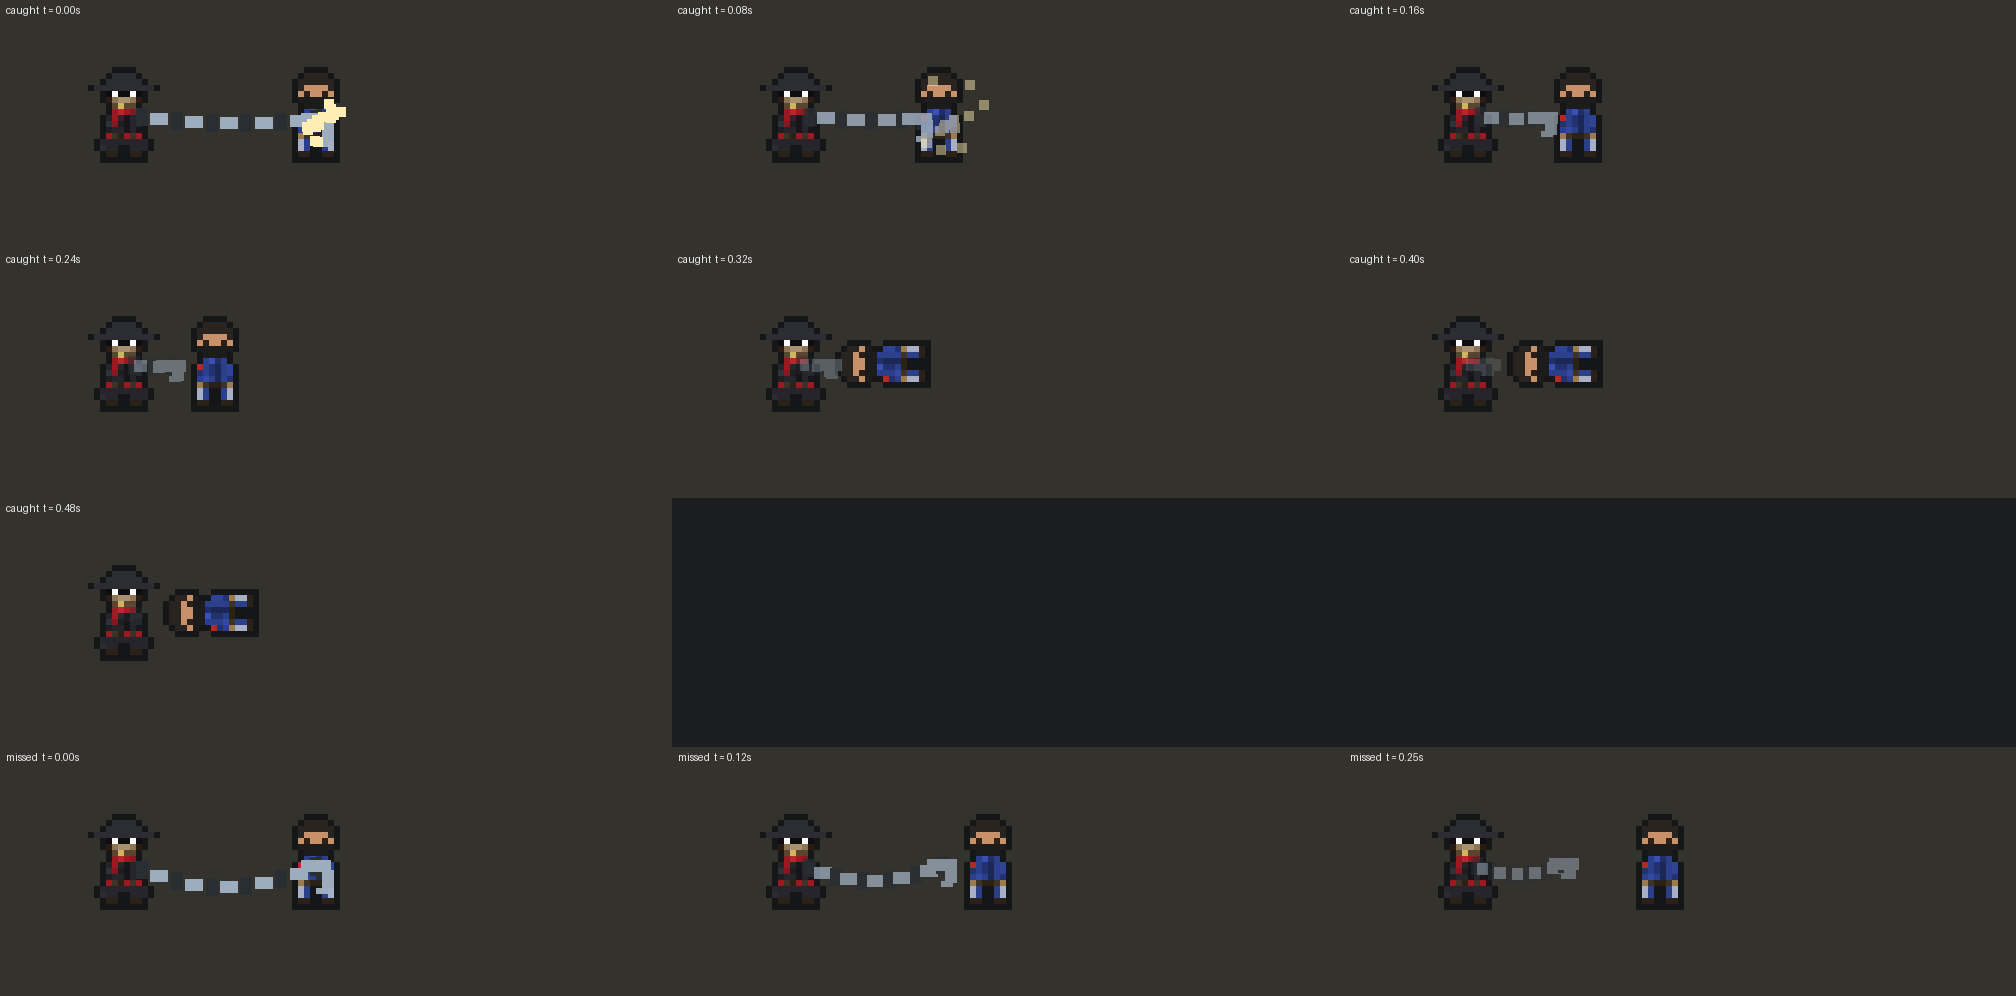
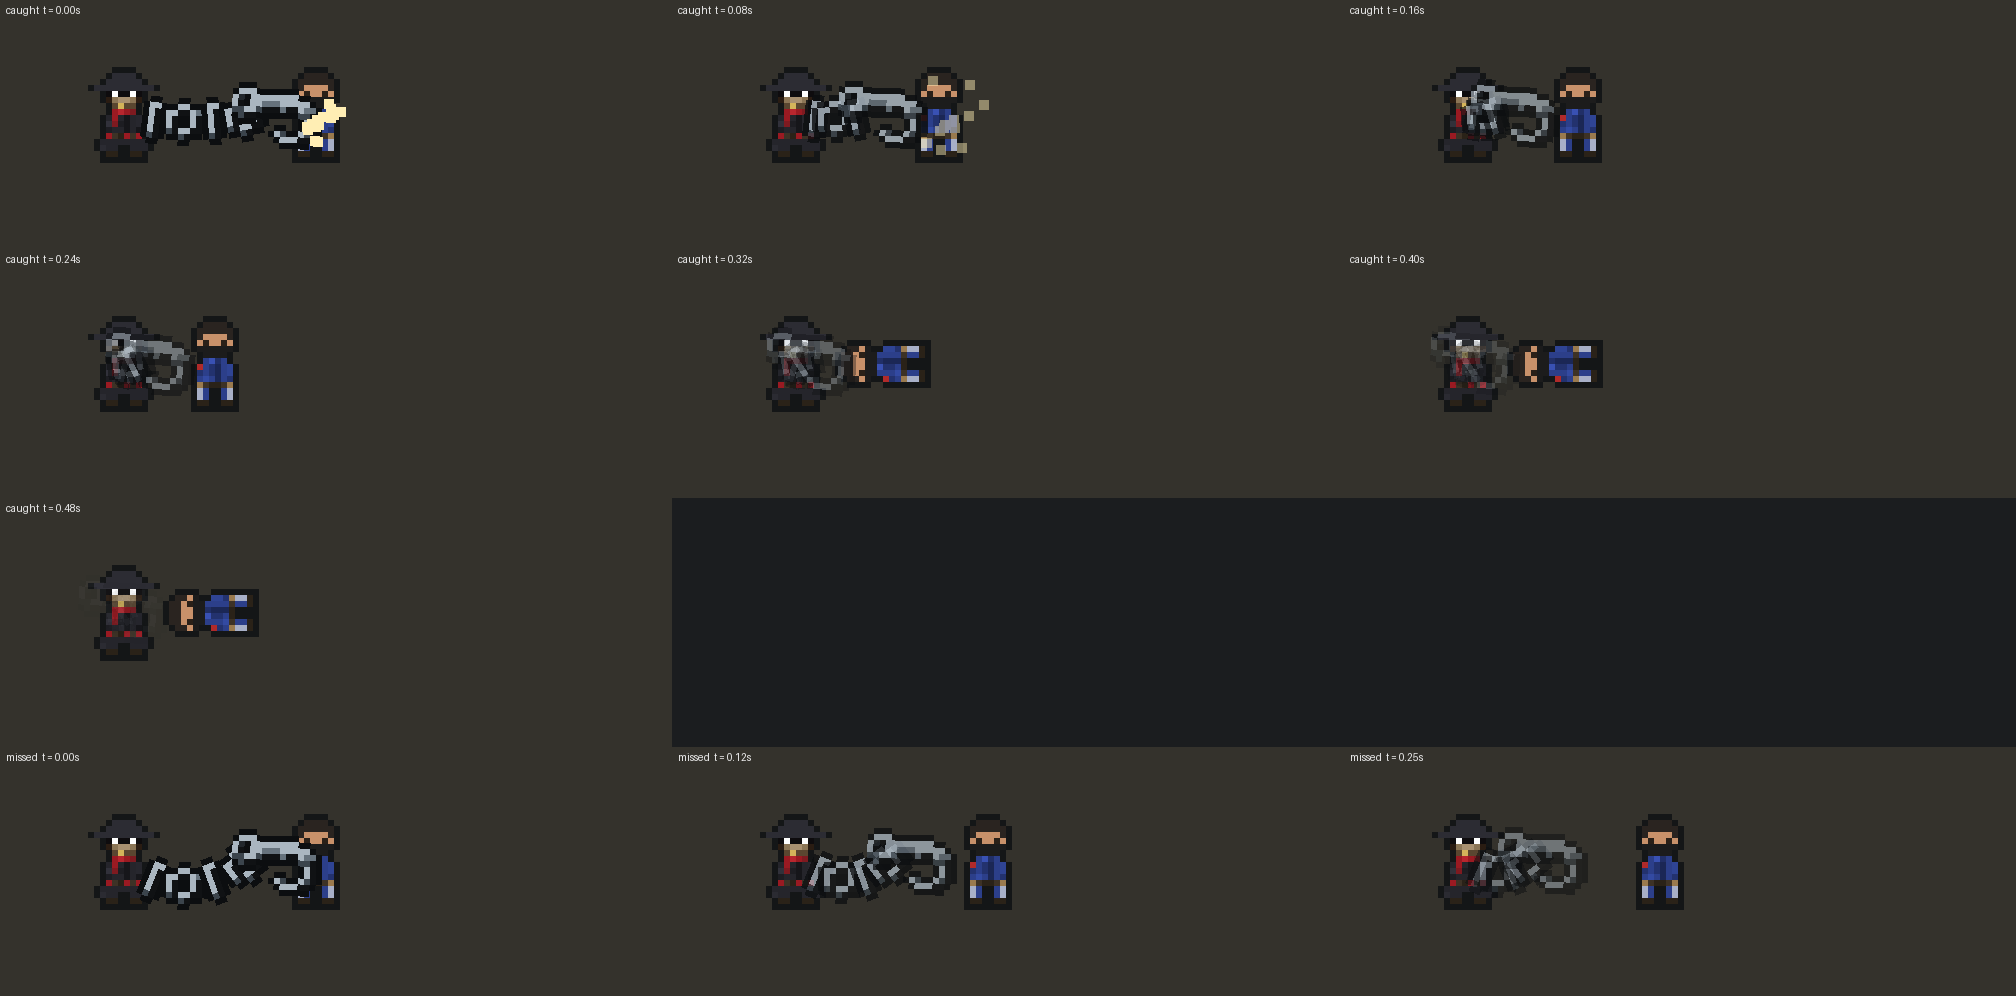
Verger Hook: a real gaff hook and interlocking chain links (sprites)
Claude-Session: https://claude.ai/code/session_01Jpd5tdDJTR7BVueAYV1KDM

diff --git a/Assets/Scripts/GameCore/CombatFxView.cs b/Assets/Scripts/GameCore/CombatFxView.cs
@@ -804,18 +804,24 @@ namespace GameCore
                     Sfx.Play(e.Hit ? "parry_perfect" : "parry", mid, 1f, e.Hit ? 0f : 0.08f);
                     Shake(e.Hit ? 0.22f : 0.07f);
                     break;
-                case "hookchain":  // 2026-11-20 (the Verger's Hook): a chain from his hands to you, drawn as links (alternating flat and edge-on, 3 px apart, a sag that goes slack when it misses and taut when it catches), a hook head at the end; the links slide back into his hands
+                case "hookchain":  // 2026-11-20 (the Verger's Hook): an iron gaff hook on a chain of interlocking links (ArtSource/make_hook_fx.py: Fx/fx_hook_head.png, Fx/fx_hook_links.png), laid along the line from his hands to you, turned to the line with the hook's curl always below; a sag that goes slack when it misses and taut when it catches; everything slides back toward his hands over half a second
                 {
                     var a = head - new Vector3(0f, 0.25f, 0f); var b = to + new Vector3(0f, 0.45f, 0f);
-                    float len = Vector3.Distance(a, b); int n = Mathf.Max(4, Mathf.RoundToInt(len / 0.19f)); float sag = (e.Hit ? 0.06f : 0.24f) * Mathf.Min(1f, len / 2f);
+                    float len = Vector3.Distance(a, b); float sag = (e.Hit ? 0.06f : 0.24f) * Mathf.Min(1f, len / 2f);
+                    var linkArt = Strip("Sprites/Fx/fx_hook_links", 2, 16, new Vector2(0.5f, 0.5f)); var hookArt = Strip("Sprites/Fx/fx_hook_head", 1, 16, new Vector2(0.5f, 0.5f));
+                    float ang = Mathf.Atan2(b.y - a.y, b.x - a.x) * Mathf.Rad2Deg, flip = b.x < a.x ? -1f : 1f;
+                    float hookLen = 0.75f; var tip = b; var eye = b - new Vector3(Mathf.Cos(ang * Mathf.Deg2Rad), Mathf.Sin(ang * Mathf.Deg2Rad), 0f) * hookLen;   // the hook's eye, one hook-length back along the line from where it bites
+                    int n = Mathf.Max(3, Mathf.RoundToInt(Vector3.Distance(a, eye) / 0.3125f));                                                                                                            // one link every 5 px (they interlock: a face-on one is 6 px long, an edge-on one 4)
                     for (int k = 1; k <= n; k++)
                     {
-                        float u = k / (float)n; var pos = Vector3.Lerp(a, b, u) + new Vector3(0f, -sag * 4f * u * (1f - u), 0f);
-                        bool flat = k % 2 == 0;
-                        Bit(pos, flat ? ChainSteel : ChainDark, flat ? 3 : 2, flat ? 2 : 3, (a - pos) / 0.5f, 0f, 0.5f, 12);     // each link slides back toward his hands over half a second
+                        float u = k / (float)n; var pos = Vector3.Lerp(a, eye, u) + new Vector3(0f, -sag * 4f * u * (1f - u), 0f);
+                        float la = Mathf.Atan2((eye.y - a.y) - sag * 4f * (1f - 2f * u), eye.x - a.x) * Mathf.Rad2Deg;                    // each link follows the sagging line
+                        if (linkArt != null) ChainPiece(linkArt[k % 2], pos, la, 1f, (a - pos) / 0.5f, 0.5f, k % 2 == 0 ? 12 : 13);
+                        else { bool flat = k % 2 == 0; Bit(pos, flat ? ChainSteel : ChainDark, flat ? 3 : 2, flat ? 2 : 3, (a - pos) / 0.5f, 0f, 0.5f, 12); }
                     }
-                    var hv = (a - b) / 0.5f;                                                                                   // the hook head: a shank, a curve down and a barb, with a dark bite behind it
-                    Bit(b, ChainSteel, 5, 2, hv, 0f, 0.5f, 13); Bit(b + new Vector3(0.1250f, -0.1250f, 0f), ChainSteel, 2, 3, hv, 0f, 0.5f, 13); Bit(b + new Vector3(0.0625f, -0.2500f, 0f), ChainSteel, 2, 1, hv, 0f, 0.5f, 13); Bit(b + new Vector3(0.0625f, -0.0625f, 0f), ChainDark, 2, 2, hv, 0f, 0.5f, 12);
+                    var hc = (eye + tip) * 0.5f;
+                    if (hookArt != null) ChainPiece(hookArt[0], hc, ang, flip, (a - hc) / 0.5f, 0.5f, 14);                         // the hook, point first, the curl below the line
+                    else { Bit(tip, ChainSteel, 5, 2, (a - tip) / 0.5f, 0f, 0.5f, 13); Bit(tip + new Vector3(0.125f, -0.125f, 0f), ChainSteel, 2, 3, (a - tip) / 0.5f, 0f, 0.5f, 13); }
                     if (e.Hit) { Burst(b, Steel, 14, 2.6f, 0.35f); Burst(b, Color.white, 6, 3.6f, 0.25f, 2); Shake(0.12f); Sfx.Play("hook_catch", to, 1f, 0.03f); Sfx.Play("chain_drag", Vector3.Lerp(a, b, 0.5f), 0.8f, 0.03f); }
                     else Sfx.Play("hook_throw", from, 0.9f, 0.04f);
                     break;
@@ -884,6 +890,14 @@ namespace GameCore
         }
 
         /// <summary>A small solid chunk (casing, shell, dropped magazine) in weapon pixels that flies and falls.</summary>
+        /// <summary>2026-11-20: a sprite piece of the hook's chain, turned to `deg` (flipY -1 keeps a curl below the line when it points left), sliding at `vel` and fading over `life`.</summary>
+        private void ChainPiece(Sprite spr, Vector3 at, float deg, float flipY, Vector3 vel, float life, int order)
+        {
+            var sr = NewSprite("Chain", spr, Color.white, _root, order);
+            sr.transform.position = at; sr.transform.rotation = Quaternion.Euler(0f, 0f, deg); sr.transform.localScale = new Vector3(1f, flipY, 1f);
+            _live.Add(new Particle { Sr = sr, Born = Time.time, Life = life, Vel = vel, Gravity = 0f, Fade = true });
+        }
+
         private void Bit(Vector3 at, Color col, int w, int h, Vector3 vel, float gravity, float life, int order)
         {
             var sr = NewSprite("Bit", White(), col, _root, order);

diff --git a/ArtSource/make_hook_fx.py b/ArtSource/make_hook_fx.py
@@ -1,0 +1,37 @@
+# The Verger's Hook, drawn (2026-11-20; Yan: "improve the chain, doesn't look like a hook right now"): a real iron gaff hook and interlocking chain links, hand-built at native pixel size with pxart (not resampled).
+#   Assets/Resources/Sprites/Fx/fx_hook_head.png   one frame, 16x12: an eye ring (the chain's end), a shank, a deep J-bend and a barbed point curling back; it points RIGHT, the curl below
+#   Assets/Resources/Sprites/Fx/fx_hook_links.png  two frames of 8x8: a link seen face-on (an oval ring with a hole) and the next one edge-on (a thick bar), they alternate along the chain
+# CombatFxView.cs ("hookchain") rotates them along the line and flips the curl so it always hangs below. python3 ArtSource/make_hook_fx.py
+import os, sys
+import numpy as np
+from PIL import Image
+sys.path.insert(0, os.path.dirname(os.path.abspath(__file__)))
+from pxart import *
+OUT = os.path.join(os.path.dirname(os.path.abspath(__file__)), "..", "Assets", "Resources", "Sprites", "Fx")
+IRON = ramp("#101214", "#22272c", "#3b444c", "#66727c", "#aab6c0")
+INK = (12, 14, 16, 255)
+def hook():
+    S = (16, 12); L = []
+    def part(build, cols, **kw):
+        m = Mask(S); build(m); L.append(shade(m, cols, **kw)); return m
+    ring = Mask(S); ring.ell(2.6, 3.4, 2.5, 2.5); hole = Mask(S); hole.ell(2.6, 3.4, 1.0, 1.0); ring.cut(hole); L.append(shade(ring, IRON, depth=1.2))                        # the eye the chain is shackled to
+    part(lambda m: m.tube([(4.6, 3.4), (9.0, 3.4)], [2.3, 2.3]), IRON, depth=1.3)                                                                                     # the shank
+    part(lambda m: m.tube([(9.0, 3.4), (12.2, 4.4), (13.4, 7.2), (11.4, 9.6), (8.6, 9.4)], [2.3, 2.2, 2.0, 1.6, 0.9]), IRON, depth=1.3)                                  # the bend, curling back on itself
+    part(lambda m: m.poly([(8.6, 9.5), (6.8, 8.0), (8.9, 8.4)]), IRON, depth=0.8)                                                                                      # the barb: a sharp tooth on the point
+    im = paint(S, L)
+    px(im, [(7, 2), (8, 2), (10, 3), (11, 4)], IRON[4]); px(im, [(4, 2)], IRON[4])                                                                                       # a glint along the top of the shank and the bend
+    return im
+def links():
+    sheet = Image.new("RGBA", (16, 8), (0, 0, 0, 0))
+    a = Mask((8, 8)); a.ell(4, 4, 3.4, 2.3); h = Mask((8, 8)); h.ell(4, 4, 1.4, 0.9); a.cut(h)                                                                           # face-on: an oval ring, the hole showing the dark behind
+    fa = shade(a, IRON, depth=1.0)
+    b = Mask((8, 8)); b.tube([(4, 2.2), (4, 5.8)], [2.2, 2.2]); fb = shade(b, IRON, depth=1.0)                                                                        # edge-on: a thick short bar
+    sheet.alpha_composite(outline(fa, INK), (0, 0)); sheet.alpha_composite(outline(fb, INK), (8, 0))
+    return sheet
+def main():
+    os.makedirs(OUT, exist_ok=True)
+    h = outline(hook(), INK); h.save(os.path.join(OUT, "fx_hook_head.png")); links().save(os.path.join(OUT, "fx_hook_links.png"))
+    big = Image.new("RGBA", (h.width * 12 + 200, 140), (52, 50, 44, 255)); big.alpha_composite(h.resize((h.width * 12, h.height * 12), Image.NEAREST), (10, 10))
+    L = Image.open(os.path.join(OUT, "fx_hook_links.png")); big.alpha_composite(L.resize((L.width * 8, L.height * 8), Image.NEAREST), (h.width * 12 + 30, 20))
+    big.save("/tmp/claude-0/-home-user-agora-vai-action/fb53e947-100c-5282-8ff4-5d048554abfc/scratchpad/hook_sprites.png"); print(h.size, L.size)
+if __name__ == "__main__": main()

diff --git a/Tools/render/hook_chain.py b/Tools/render/hook_chain.py
@@ -40,14 +40,24 @@ def render(hit, times, ground=0):
         k_t = t / 0.5; alpha = max(0.0, 1 - k_t)
         if alpha > 0:
             lay = Image.new("RGBA", im.size, (0, 0, 0, 0)); dl = ImageDraw.Draw(lay)
-            def bit(pos, col, w, h):
-                x, y = pos[0] + (a[0] - pos[0]) * k_t, pos[1] + (a[1] - pos[1]) * k_t            # vel = (a - pos) / 0.5 over t seconds
-                cx, cy = x * TILE, byc - y * TILE; hw, hh = w * Z / 2, h * Z / 2
-                dl.rectangle((cx - hw, cy - hh, cx + hw - 1, cy + hh - 1), fill=col + (int(255 * alpha),))
-            for k in range(1, n + 1):
-                u = k / n; pos = (a[0] + (b[0] - a[0]) * u, a[1] + (b[1] - a[1]) * u - sag * 4 * u * (1 - u)); flat = k % 2 == 0
-                bit(pos, STEEL if flat else DARK, 3 if flat else 2, 2 if flat else 3)
-            bit((b[0] + 0.0625, b[1] - 0.0625), DARK, 2, 2); bit(b, STEEL, 5, 2); bit((b[0] + 0.125, b[1] - 0.125), STEEL, 2, 3); bit((b[0] + 0.0625, b[1] - 0.25), STEEL, 2, 1)
+            import math
+            LINKS = Image.open(os.path.join(SPR, "Fx", "fx_hook_links.png")).convert("RGBA"); HOOK = Image.open(os.path.join(SPR, "Fx", "fx_hook_head.png")).convert("RGBA")
+            def piece(img, pos, deg, flip):
+                """a sprite piece as CombatFxView.ChainPiece: scale.y = flip, then turned `deg` (counter-clockwise), centred on pos, slid toward his hands by k_t (vel = (a - pos) / 0.5)"""
+                x, y = pos[0] + (a[0] - pos[0]) * k_t, pos[1] + (a[1] - pos[1]) * k_t
+                im2 = img.resize((img.width * Z, img.height * Z), Image.NEAREST)
+                if flip < 0: im2 = im2.transpose(Image.FLIP_TOP_BOTTOM)
+                im2 = im2.rotate(deg, expand=True, resample=Image.NEAREST)
+                al = im2.getchannel("A").point(lambda v: int(v * alpha)); im2.putalpha(al)
+                lay.alpha_composite(im2, (int(x * TILE - im2.width / 2), int(byc - y * TILE - im2.height / 2)))
+            ang = math.degrees(math.atan2(b[1] - a[1], b[0] - a[0])); flip = -1 if b[0] < a[0] else 1
+            hl = 0.75; eye = (b[0] - math.cos(math.radians(ang)) * hl, b[1] - math.sin(math.radians(ang)) * hl)
+            nl = max(3, round(((a[0] - eye[0]) ** 2 + (a[1] - eye[1]) ** 2) ** .5 / 0.3125))
+            for k in range(1, nl + 1):
+                u = k / nl; pos = (a[0] + (eye[0] - a[0]) * u, a[1] + (eye[1] - a[1]) * u - sag * 4 * u * (1 - u))
+                la = math.degrees(math.atan2((eye[1] - a[1]) - sag * 4 * (1 - 2 * u), eye[0] - a[0]))
+                frame_ = LINKS.crop(((k % 2) * 8, 0, (k % 2) * 8 + 8, 8)); piece(frame_, pos, la, 1)
+            piece(HOOK, ((eye[0] + b[0]) / 2, (eye[1] + b[1]) / 2), ang, flip)
             if hit and t < 0.15:                                                              # the catch: sparks
                 import random; random.seed(int(t * 1000))
                 for _ in range(14):

diff --git a/ArtSource/WORK_LOG.md b/ArtSource/WORK_LOG.md
@@ -6869,3 +6869,4 @@ Yan: "give me the concept for that boss we talked about after this". `ArtSource/
 - 9ag scythe resize (Yan: 'a little bigger and less curved'): blade about half as long again and a curve factor of 0.5 instead of a full hook (`verger_scythe.py` CURVE); sprites now 36x20 (hand) and 72x40 (menu); HeldWeapon grip (7,15) and cutting point (24,6) moved to match. Harness passes; not seen in Unity.
 - 9ag the Hook's drag BUILT (Boss.cs `Move.Drag`, `Boss.DragIn`): the Hook no longer rushes in, he stops 2 tiles away (the scythe's tip); if it cuts you the beard hauls you toward him (Rt.Shove, eased, walls and friends stop it) to 0.9 tiles and you are prone 0.5 s; his opening after it is 1.2 s (was 2.0). Harness check added. Not seen in Unity; no chain/hook art or sound of its own yet.
 - 9ag the Hook's chain and sound: FxEvent 'hookchain' (Boss.Land, Hit = caught) drawn in CombatFxView.cs BossFx as links (alternating 3x2 / 2x3 px, one per 0.19 tile, sag 0.24 slack on a miss / 0.06 taut on a catch) with a hook head (shank, curve, barb, dark bite), sliding back over 0.5 s and fading, sparks and a small shake on a catch; sounds `hook_throw`, `hook_catch`, `chain_drag` (procedural, `ArtSource/audio/sfx_hook.py`, Assets/Resources/Audio). Preview of the same numbers: `Tools/render/hook_chain.py` -> maps/renders/verger/hook_chain_sheet.png + .gif. Stubs gained Vector3.Distance and Vector3 / float. NOT seen or heard in Unity (the sounds were synthesized and checked only for length/level, not listened to); not synced to co-op clients (fx kind not on the wire).
+- 9ag the Hook redrawn (Yan: 'doesn't look like a hook right now'): real sprites instead of coloured blocks: `ArtSource/make_hook_fx.py` -> Fx/fx_hook_head.png (16x12 iron gaff hook: eye ring, shank, J-bend, barb) and Fx/fx_hook_links.png (face-on oval link + edge-on bar, 8x8 each, alternating every 5 px); CombatFxView 'hookchain' lays them along the sagging line, hook point first with the curl always below, falling back to the old blocks if the PNGs are missing; Tools/render/hook_chain.py uses the same PNGs. Not seen in Unity.
